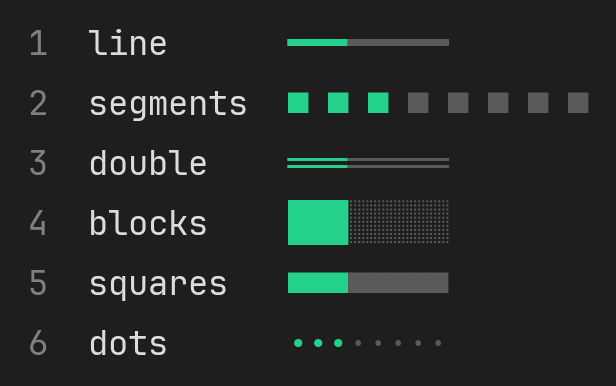
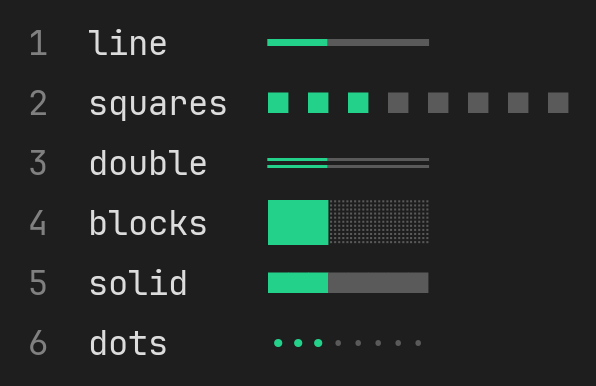
0.8.5: переименование скинов, отставание от /usage в «Ограничениях»
- Скин №2 (квадраты через пробел) теперь squares, №5 (слитные) — solid;
  сохранённый выбор переносится один раз, старое имя segments работает.
- README: пункт об отставании полоски от /usage на один ответ.

diff --git a/hooks/skins.ts b/hooks/skins.ts
@@ -13,10 +13,10 @@ export type Skin = {
 
 export const SKINS: readonly Skin[] = [
   { id: 'line', title: { ru: 'толстая линия', en: 'thick line' }, filled: '━', empty: '━' },
-  { id: 'segments', title: { ru: 'сегменты', en: 'segments' }, filled: '■', empty: '■', gap: ' ' },
+  { id: 'squares', title: { ru: 'квадраты', en: 'squares' }, filled: '■', empty: '■', gap: ' ' },
   { id: 'double', title: { ru: 'двойная линия', en: 'double line' }, filled: '═', empty: '═' },
   { id: 'blocks', title: { ru: 'блоки', en: 'blocks' }, filled: '█', empty: '░' },
-  { id: 'squares', title: { ru: 'квадраты', en: 'squares' }, filled: '■', empty: '■' },
+  { id: 'solid', title: { ru: 'сплошные квадраты', en: 'solid squares' }, filled: '■', empty: '■' },
   { id: 'dots', title: { ru: 'точки', en: 'dots' }, filled: '•', empty: '·' },
 ]
 
@@ -24,13 +24,23 @@ export const DEFAULT_SKIN = 'line'
 
 const CELLS = 8
 
+// Прежние имена скинов (до 0.8.5): segments стал squares, а прежний squares — solid.
+// Набранное в команде прежнее имя segments ведёт на новый squares
+const ALIASES: Record<string, string> = { segments: 'squares' }
+
+// Перенос сохранённого выбора со старых имён (версия схемы 1) на новые (2)
+export const SKIN_SCHEMA = 2
+export const migrateSkinId = (id: string): string =>
+  id === 'segments' ? 'squares' : id === 'squares' ? 'solid' : id
+
 // Ищет скин по номеру (с 1) или по id; неизвестный — null
 export const findSkin = (query: string): Skin | null => {
   const q = query.trim().toLowerCase()
   if (!q) return null
   const n = Number(q)
   if (Number.isInteger(n)) return SKINS[n - 1] ?? null
-  return SKINS.find(s => s.id === q) ?? null
+  const id = ALIASES[q] ?? q
+  return SKINS.find(s => s.id === id) ?? null
 }
 
 export const skinById = (id: string | undefined): Skin =>

diff --git a/hooks/register.tsx b/hooks/register.tsx
@@ -2,13 +2,15 @@ import { atom, read, update } from 'claude-code'
 import type { EngineInterface, Register, SessionRateLimit } from 'claude-code'
 
 import type { Limits, TimeFormat, Window } from '../types'
-import { DEFAULT_SKIN, barParts, findSkin, skinById, skinsList } from './skins'
+import { DEFAULT_SKIN, SKIN_SCHEMA, barParts, findSkin, migrateSkinId, skinById, skinsList } from './skins'
 import { STRINGS, langFromLocale } from './i18n'
 import type { Lang, LangSetting } from './i18n'
 
 const STORE_KEY = 'last-limits'
 const HIDDEN_KEY = 'hidden'
 const SKIN_KEY = 'skin'
+// Версия имён скинов в хранилище: до 2 — старые имена (segments, squares)
+const SKIN_SCHEMA_KEY = 'skin-schema'
 const ICONS_KEY = 'icons'
 const LANG_KEY = 'lang'
 // Последний язык системы — чтобы при запуске сразу показать нужный язык
@@ -281,7 +283,15 @@ export const register: Register = on => {
     await update($, langSetting, () => (isLangSetting(storedLang) ? storedLang : 'auto'))
     const storedSys = await $.store.get(SYS_LANG_KEY)
     await update($, sysLang, () => (storedSys === 'ru' || storedSys === 'en' ? storedSys : 'en'))
-    const storedSkin = await $.store.get(SKIN_KEY)
+    let storedSkin = await $.store.get(SKIN_KEY)
+    // Выбор, сохранённый под старыми именами, переводим на новые один раз
+    if ((await $.store.get(SKIN_SCHEMA_KEY)) !== SKIN_SCHEMA) {
+      if (typeof storedSkin === 'string') {
+        storedSkin = migrateSkinId(storedSkin)
+        await $.store.set(SKIN_KEY, storedSkin)
+      }
+      await $.store.set(SKIN_SCHEMA_KEY, SKIN_SCHEMA)
+    }
     await update($, skin, () => skinById(typeof storedSkin === 'string' ? storedSkin : undefined).id)
 
     // Формат времени и язык системы читаем в фоне, чтобы не задерживать запуск

diff --git a/README.md b/README.md
@@ -38,6 +38,7 @@
 
 Полоска обновляется сама после каждого ответа Claude. При запуске, пока ответа ещё не было, показываются последние известные цифры с пометкой «из прошлой сессии».
 
+
 В узком окне терминала полоска сокращается сама: сначала убирает время обновления, а если места всё равно мало — блок недели.
 
 ## Установка
@@ -80,9 +81,9 @@ claude plugin install usage-limits --marketplace IlTsPe/usage-limits-bar
 ## Скины
 Скин меняет вид полоски. Все скины работают в стандартных шрифтах Windows, macOS и Linux.
 
-<p align="center"><img src="docs/skins.png" alt="Шесть скинов полоски: line, segments, double, blocks, squares, dots" width="40%"></p>
+<p align="center"><img src="docs/skins.png" alt="Шесть скинов полоски: line, squares, double, blocks, solid, dots" width="40%"></p>
 
-Вид зависит от шрифта терминала: например, в стандартной консоли Windows квадраты скина `squares` стоят с небольшими промежутками.
+Вид зависит от шрифта терминала: например, в стандартной консоли Windows квадраты скина `solid` стоят с небольшими промежутками.
 
 ## Иконки
 По умолчанию плагин использует только символы, которые есть в любом шрифте. Если хочется красивых иконок — часов, календаря и стрелки обновления, — нужен шрифт из семейства [Nerd Fonts](https://www.nerdfonts.com/).
@@ -129,6 +130,7 @@ claude plugin install usage-limits --marketplace IlTsPe/usage-limits-bar
 Чтобы вернуться к автоматическому определению языка, введите: `/limits lang auto`.
 
 ## Ограничения
+- Полоска показывает расход на момент последнего ответа Claude: сервер присылает цифры вместе с ответом, ещё без учёта самого этого ответа. Поэтому она может отставать от `/usage` на 1–2%, пока не придёт следующий ответ. Расход в других окнах Claude Code, на claude.ai и у фоновых агентов тоже появится только со следующим ответом в этой сессии.
 - Работает при входе в Claude Code через подписку Claude (Pro, Max). При работе через API-ключ лимитов «5 часов / неделя» нет — полоска останется пустой.
 - Полоска видна в Claude Code в терминале (PowerShell, cmd, Git Bash, терминал VS Code, Windows Terminal, iTerm2 и др.) и в десктоп-приложении. В панели расширения Claude Code для VS Code, в браузере и в мобильном приложении её нет — там лимиты смотрите через `/usage`.
 - Формат времени (12 или 24 часа) и часовой пояс берутся из настроек системы. Проверено на Windows; на macOS и Linux работает по тем же правилам, но проверено только тестами.

diff --git a/README.en.md b/README.en.md
@@ -38,6 +38,7 @@ What the bar shows:
 
 The bar updates on its own after every Claude reply. At startup, before the first reply, it shows the last known numbers marked "(last session)".
 
+
 In a narrow terminal window the bar shortens itself: first it drops the reset time, and if there is still not enough room, the week block.
 
 ## Installation
@@ -80,9 +81,9 @@ You can also collapse the bar with the Claude Code shortcut **Ctrl+X**, then **C
 ## Skins
 A skin changes how the bar looks. All skins work with the standard fonts of Windows, macOS and Linux.
 
-<p align="center"><img src="docs/skins.png" alt="Six bar skins: line, segments, double, blocks, squares, dots" width="40%"></p>
+<p align="center"><img src="docs/skins.png" alt="Six bar skins: line, squares, double, blocks, solid, dots" width="40%"></p>
 
-The look depends on the terminal font: for example, in the standard Windows console the squares of the `squares` skin have small gaps between them.
+The look depends on the terminal font: for example, in the standard Windows console the squares of the `solid` skin have small gaps between them.
 
 ## Icons
 By default the plugin uses only characters that every font has. For nicer icons (a clock, a calendar and a refresh arrow) you need a font from the [Nerd Fonts](https://www.nerdfonts.com/) family.
@@ -129,6 +130,7 @@ To choose the language manually, use these commands:
 To go back to automatic language detection, type: `/limits lang auto`.
 
 ## Limitations
+- The bar shows usage as of Claude's last reply: the server sends the numbers with the reply, before that reply itself is counted. So it may lag behind `/usage` by 1–2% until the next reply arrives. Usage in other Claude Code windows, on claude.ai and by background agents also shows up only with the next reply in this session.
 - Works when you sign in to Claude Code with a Claude subscription (Pro, Max). With an API key there are no "5 hours / week" limits, so the bar stays empty.
 - The bar shows in Claude Code in a terminal (PowerShell, cmd, Git Bash, the VS Code terminal, Windows Terminal, iTerm2, etc.) and in the desktop app. It does not show in the Claude Code extension panel for VS Code, in the browser or in the mobile app; use `/usage` there.
 - The time format (12 or 24 hours) and the time zone come from the system settings. Tested on Windows; on macOS and Linux it works by the same rules but has been checked only by tests.
